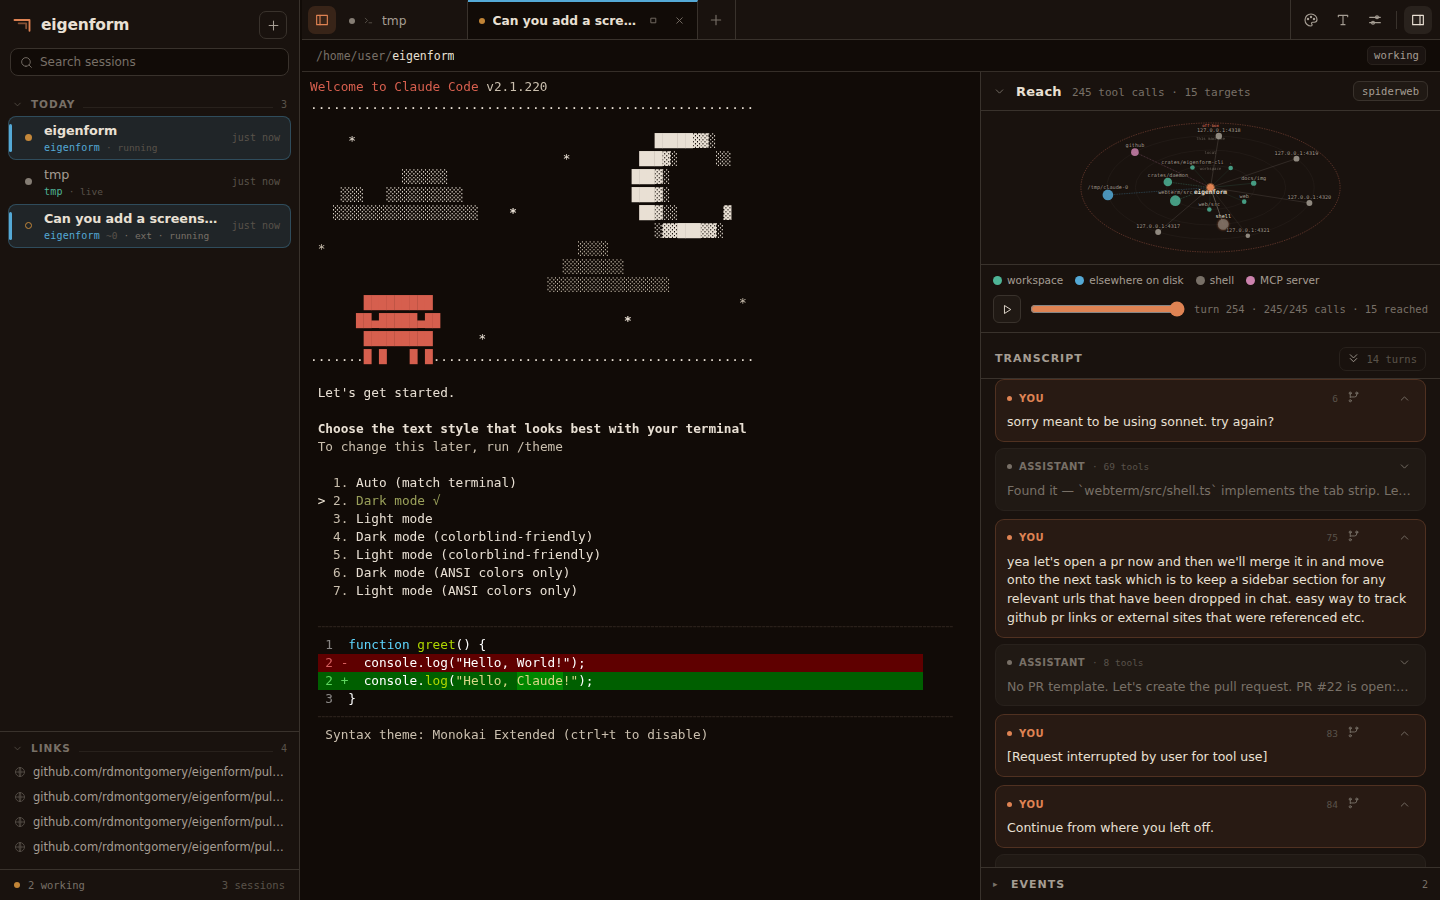
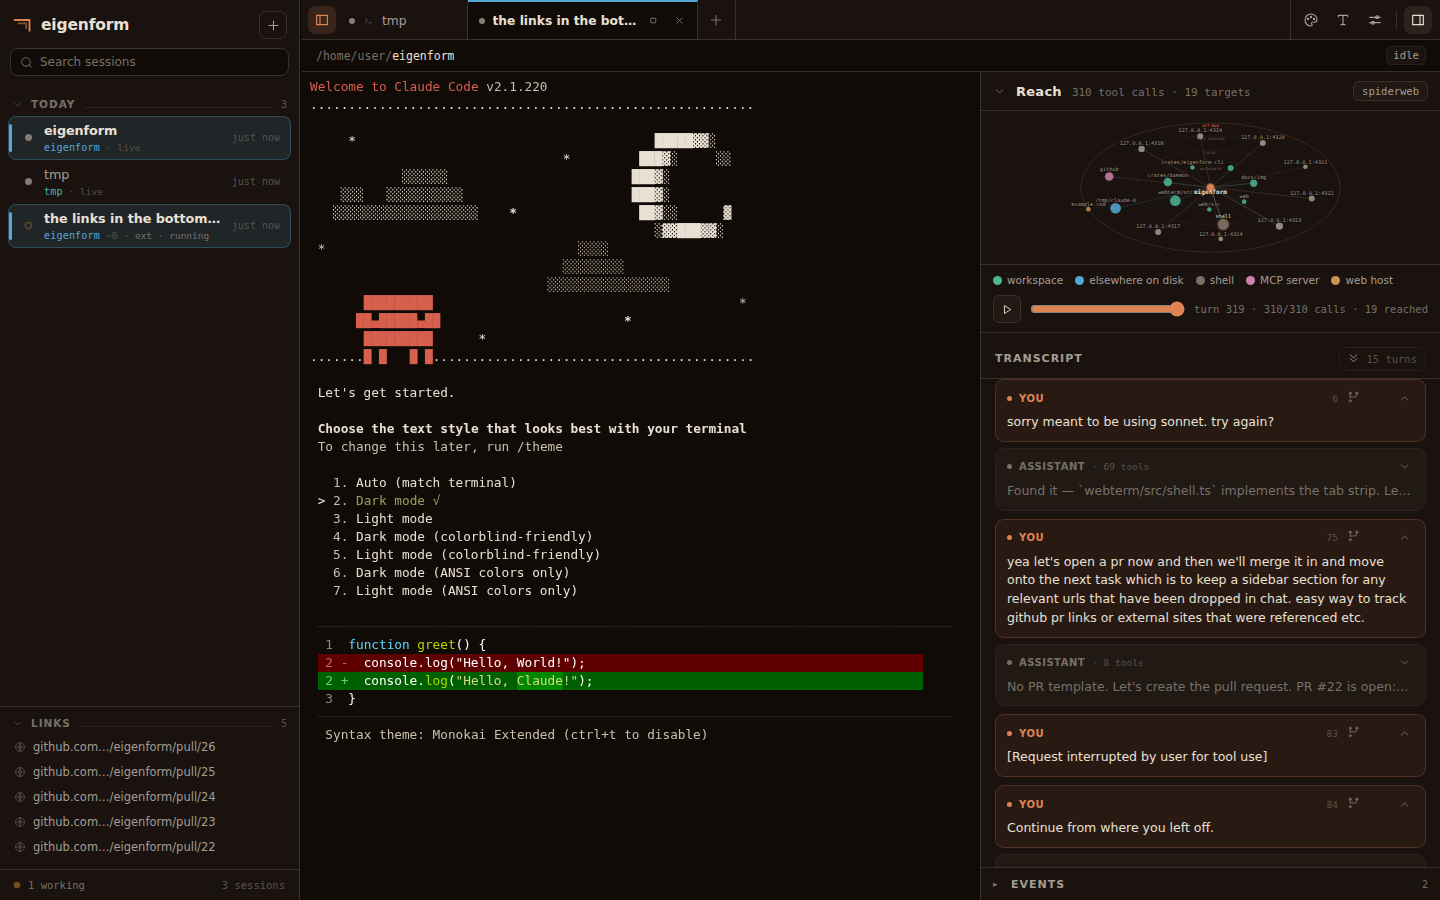
Fix rail Links labels truncating away the differentiating part
linkLabel showed host+path with plain end-ellipsis, so sibling links
sharing a long prefix (e.g. "github.com/owner/repo/pull/") — like our
own PR #22-#25 — all rendered as the same truncated string, looking
like duplicates in the screenshot even though extractUrls had already
deduped them correctly.

Moved linkLabel into links.ts as a pure, tested function and changed
truncation to keep the host plus whole trailing path segments (walking
backward from the end while they fit the budget), so the part that
actually differs between links stays visible. Falls back to raw
tail-truncation when a single segment already exceeds the whole
budget.

Also regenerated the README screenshot to match (previous one used
the old function, plus its capture script waited only ~2.5s for the
inspect panel to populate — GET /api/session/:uuid/json now takes ~7s
against this repo's own now-large transcript, so the panel was
silently empty in a couple of intermediate attempts before fixing the
capture script to poll for real content instead of a fixed wait).

diff --git a/webterm/src/links.test.ts b/webterm/src/links.test.ts
@@ -2,7 +2,7 @@
 // Run: `node --test` (native TS via --experimental-strip-types in Node 22+).
 import { test } from "node:test";
 import assert from "node:assert/strict";
-import { extractUrls } from "./links.ts";
+import { extractUrls, linkLabel } from "./links.ts";
 import type { Exchange } from "./turns.ts";
 
 function ex(overrides: Partial<Exchange> & { n: number }): Exchange {
@@ -147,4 +147,53 @@ test("extractUrls: no exchanges → empty list", () => {
 test("extractUrls: no URLs present → empty list", () => {
   const got = extractUrls([ex({ n: 1, user: "no links at all" })]);
   assert.deepEqual(got, []);
+});
+
+// ---------------------------------------------------------------------------
+// linkLabel — rail display label, truncated to keep the differentiating tail
+// ---------------------------------------------------------------------------
+
+test("linkLabel: short host+path fits untouched", () => {
+  assert.equal(linkLabel("https://example.com/foo"), "example.com/foo");
+});
+
+test("linkLabel: bare host (root path) has no trailing slash", () => {
+  assert.equal(linkLabel("https://example.com/"), "example.com");
+  assert.equal(linkLabel("https://example.com"), "example.com");
+});
+
+test("linkLabel: sibling PR links stay distinguishable (the bug this fixes)", () => {
+  const labels = [22, 23, 24, 25].map((n) =>
+    linkLabel(`https://github.com/rdmontgomery/eigenform/pull/${n}`),
+  );
+  // All four must render to DIFFERENT strings — a shared long prefix
+  // ("github.com/rdmontgomery/eigenform/pull/") must not swallow the part
+  // that actually differs (the PR number).
+  assert.equal(new Set(labels).size, 4, `expected 4 distinct labels, got ${JSON.stringify(labels)}`);
+  for (const label of labels) {
+    assert.ok(label.length <= 36, `label too long: ${label}`);
+  }
+});
+
+test("linkLabel: truncates from the front, keeping whole trailing path segments", () => {
+  const label = linkLabel("https://github.com/rdmontgomery/eigenform/pull/22");
+  assert.equal(label, "github.com…/eigenform/pull/22");
+});
+
+test("linkLabel: preserves the host even when the path must truncate", () => {
+  const label = linkLabel("https://github.com/rdmontgomery/eigenform/pull/22");
+  assert.ok(label.startsWith("github.com"), `expected host kept, got ${label}`);
+});
+
+test("linkLabel: a single path segment longer than the whole budget falls back to raw tail", () => {
+  const url = `https://example.com/${"x".repeat(60)}`;
+  const label = linkLabel(url);
+  assert.ok(label.startsWith("example.com…"));
+  assert.ok(label.length <= 36);
+});
+
+test("linkLabel: query string and fragment count toward the path length", () => {
+  const label = linkLabel("https://example.com/pull/22?tab=files#issuecomment-99999999");
+  assert.equal(label, "example.com…es#issuecomment-99999999");
+  assert.ok(label.length <= 36);
 });

diff --git a/webterm/src/links.ts b/webterm/src/links.ts
@@ -93,3 +93,50 @@ export function extractUrls(exchanges: Exchange[]): LinkEntry[] {
 
   return [...seen.values()];
 }
+
+/**
+ * Max characters in a rail link label. Long enough for a legible host+path in
+ * the rail's default width, short enough that most labels don't need
+ * truncating at all; the CSS `text-overflow: ellipsis` on `.rail-link-label`
+ * is a safety net for a narrower rail.
+ */
+const LABEL_MAX_CHARS = 36;
+
+/**
+ * Compact host + path label for a URL — the full url lives in the row's
+ * title tooltip. Truncates from the FRONT of the path, keeping whole trailing
+ * segments, so the part that usually differs between sibling links (a PR/issue
+ * number, a filename, a slug) stays visible. Sibling links sharing a long
+ * prefix (e.g. "github.com/owner/repo/pull/") would otherwise all display as
+ * the same truncated string under plain end-ellipsis, even though they point
+ * at different PRs.
+ */
+export function linkLabel(url: string): string {
+  let host: string;
+  let rest: string;
+  try {
+    const u = new URL(url);
+    host = u.hostname;
+    rest = u.pathname === "/" ? "" : `${u.pathname}${u.search}${u.hash}`;
+  } catch {
+    return url;
+  }
+
+  const full = rest ? `${host}${rest}` : host;
+  if (full.length <= LABEL_MAX_CHARS) return full;
+  if (!rest) return `${full.slice(0, LABEL_MAX_CHARS - 1)}…`; // host alone is already over budget
+
+  const budget = LABEL_MAX_CHARS - host.length - 1; // -1 for the "…" marker
+  if (budget <= 0) return `${full.slice(0, LABEL_MAX_CHARS - 1)}…`;
+
+  // rest starts with "/", so segments[0] === "" — walk backwards from the end,
+  // keeping whole "/segment" chunks while they still fit the budget.
+  const segments = rest.split("/");
+  let kept = "";
+  for (let i = segments.length - 1; i >= 1; i--) {
+    const candidate = `/${segments[i]}${kept}`;
+    if (candidate.length > budget) break;
+    kept = candidate;
+  }
+  return kept ? `${host}…${kept}` : `${host}…${rest.slice(-budget)}`;
+}

diff --git a/webterm/src/shell.ts b/webterm/src/shell.ts
@@ -70,7 +70,7 @@ import type { ForestPreviewHandle } from "./forest-preview.ts";
 import { icon } from "./icons.ts";
 import { openInspect } from "./inspect.ts";
 import { subscribeWatch } from "./watch.ts";
-import { extractUrls } from "./links.ts";
+import { extractUrls, linkLabel } from "./links.ts";
 import type { LinkEntry } from "./links.ts";
 import type { Exchange } from "./turns.ts";
 
@@ -768,17 +768,6 @@ export function mountShell(appEl: HTMLElement): void {
       void loadLinks(uuid);
     }
     renderLinks();
-  }
-
-  /** Compact host + path label for a URL — full url lives in the title tooltip. */
-  function linkLabel(url: string): string {
-    try {
-      const u = new URL(url);
-      const rest = `${u.pathname}${u.search}${u.hash}`;
-      return rest && rest !== "/" ? `${u.hostname}${rest}` : u.hostname;
-    } catch {
-      return url;
-    }
   }
 
   function renderLinks() {
